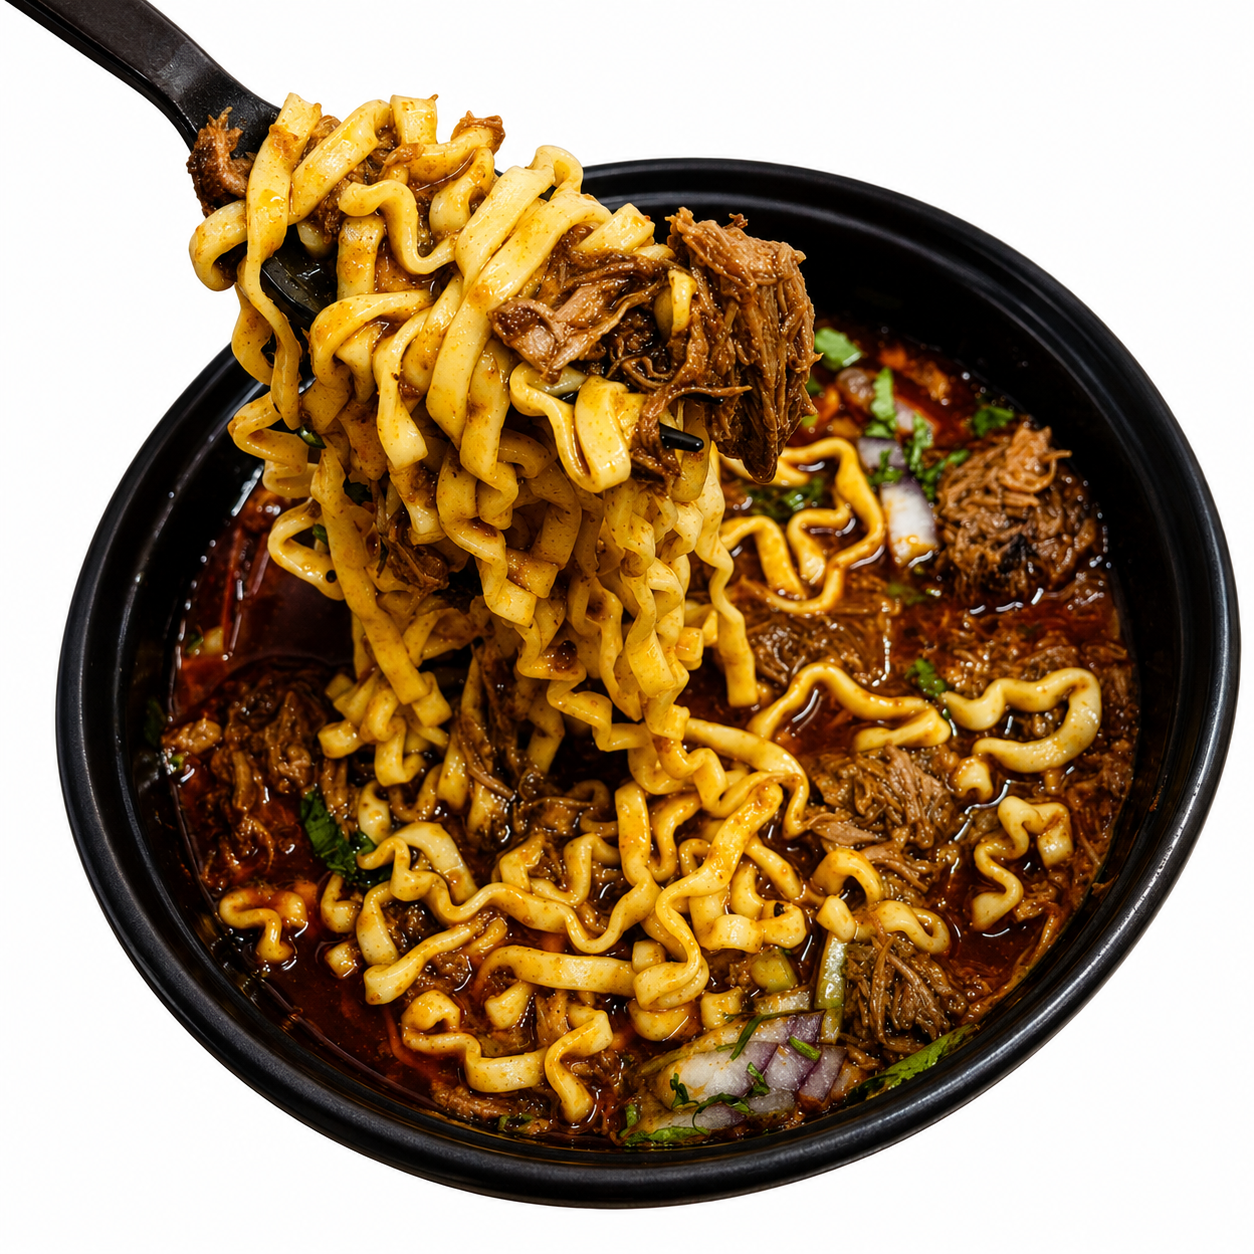
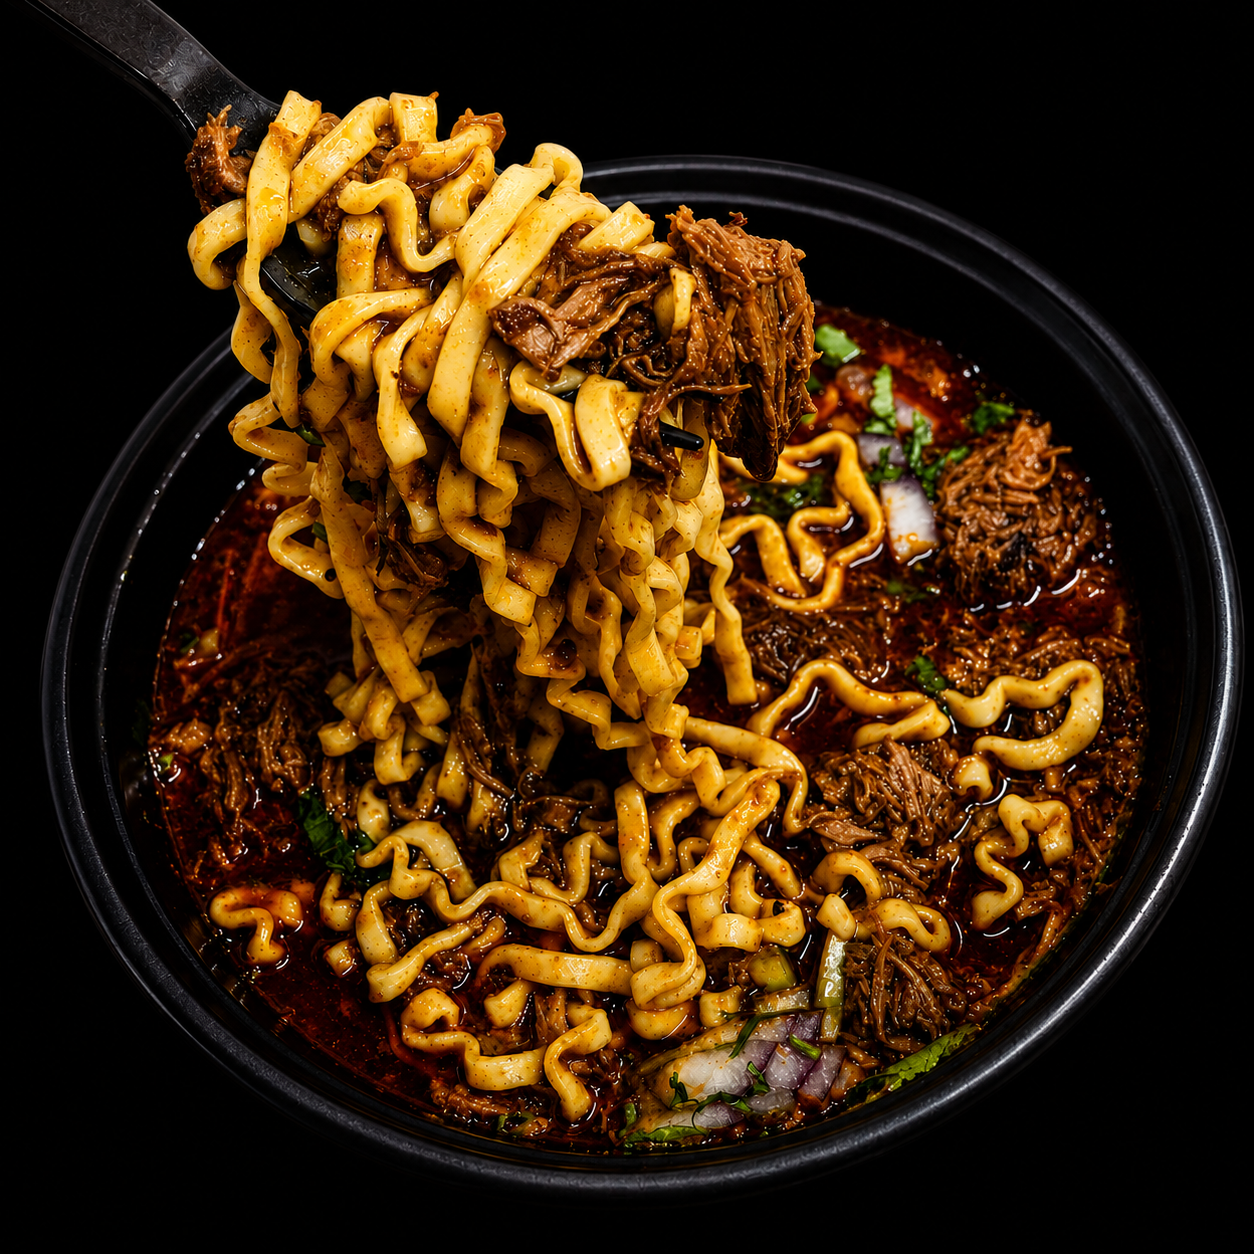
Add new menu items and update food images

diff --git a/menu.html b/menu.html
@@ -34,29 +34,51 @@
 
     <section class="menu-container">
 
-        <!-- Hawaiian Burger -->
+        <!-- Cuban Torta -->
         <div class="menu-card">
 
             <div class="menu-image">
-                <!-- Replace image later -->
-                <img src="images/hawaiian-placeholder.jpg" alt="Hawaiian Burger">
+                <img src="images/cubana.png" alt="Torta Cubana">
             </div>
 
             <div class="menu-info">
 
-                <h2>Hawaiian Burger</h2>
+                <h2>Cuban Torta</h2>
 
                 <p>
-                    1/3-pound burger topped with ham, pineapple,
-                    pepper jack cheese, lettuce, tomato,
-                    onion, and pickles.
+                    Crispy chicken wrapped in a warm flour tortilla 
+                    with crisp lettuce, 
+                    fresh tomatoes, melted cheese, 
+                    and creamy Caesar dressing.
                 </p>
 
-                <span class="price">$14</span>
+                <span class="price">$15</span>
 
             </div>
         </div>
 
+        <!-- Hawaiian Torta -->
+        <div class="menu-card">
+
+            <div class="menu-image">
+                <img src="images/hawaiian-torta.png" alt="Hawaiian Torta">
+            </div>
+
+            <div class="menu-info">
+
+                <h2>Hawaiian Torta</h2>
+
+                <p>
+                    Crispy chicken wrapped in a warm flour tortilla 
+                    with crisp lettuce, 
+                    fresh tomatoes, melted cheese, 
+                    and creamy Caesar dressing.
+                </p>
+
+                <span class="price">$15</span>
+
+            </div>
+        </div>
 
         <!-- Brisket Burger -->
         <div class="menu-card">
@@ -80,28 +102,28 @@
             </div>
         </div>
 
-
-        <!-- Birriamen -->
+        <!-- Hawaiian Burger -->
         <div class="menu-card">
 
             <div class="menu-image">
-                <img src="images/birriaRamen.png" alt="Birriamen">
+                <!-- Replace image later -->
+                <img src="images/hawaiian-placeholder.jpg" alt="Hawaiian Burger">
             </div>
 
             <div class="menu-info">
 
-                <h2>Birriamen</h2>
+                <h2>Hawaiian Burger</h2>
 
                 <p>
-                    Homemade birria with ramen noodles,
-                    dressed with onion and cilantro.
+                    1/3-pound burger topped with ham, pineapple,
+                    pepper jack cheese, lettuce, tomato,
+                    onion, and pickles.
                 </p>
 
-                <span class="price">$15</span>
+                <span class="price">$14</span>
 
             </div>
         </div>
-
 
         <!-- Quesabirria -->
         <div class="menu-card">
@@ -124,21 +146,42 @@
 
             </div>
         </div>
-        
-        <!-- chicken ranch wrap -->
+
+        <!-- Birriamen -->
         <div class="menu-card">
 
             <div class="menu-image">
-                <img src="images/ranchwrap.png" alt="Chicken Ranch Wrap">
+                <img src="images/birriaRamen.png" alt="Birriamen">
             </div>
 
             <div class="menu-info">
 
-                <h2>Chicken Bacon Ranch Wrap</h2>
+                <h2>Birriamen</h2>
+
+                <p>
+                    Homemade birria with ramen noodles,
+                    dressed with onion and cilantro.
+                </p>
+
+                <span class="price">$15</span>
+
+            </div>
+        </div>
+        
+        <!-- jalapeño chicken ranch wrap -->
+        <div class="menu-card">
+
+            <div class="menu-image">
+                <img src="images/ranchwrap.png" alt="Jalapeño Chicken Ranch Wrap">
+            </div>
+
+            <div class="menu-info">
+
+                <h2>Jalapeño Chicken Ranch Wrap</h2>
 
                 <p>
                     Crispy chicken wrapped in a warm flour tortilla with 
-                    crispy bacon, mozzarella cheese, 
+                    crispy bacon, mozzarella cheese, pickled jalapeños, crisp 
                     lettuce, fresh pico de gallo, and creamy ranch dressing.
                 </p>
 
@@ -164,6 +207,93 @@
                     with crisp lettuce, 
                     fresh tomatoes, melted cheese, 
                     and creamy Caesar dressing.
+                </p>
+
+                <span class="price">$15</span>
+
+            </div>
+        </div>
+
+        <!-- Chicken Torta -->
+        <div class="menu-card">
+
+            <div class="menu-image">
+                <img src="images/chickenTorta.png" alt="Chicken Torta">
+            </div>
+
+            <div class="menu-info">
+
+                <h2>Chicken Milanesa Torta</h2>
+
+                <p>
+                    Crispy breaded chicken breast topped with melted cheese, 
+                    refried beans, fresh tomatoes, onion, and pickled jalapeños on a toasted Mexican bolillo roll.
+                </p>
+
+                <span class="price">$15</span>
+
+            </div>
+        </div>
+
+        <!-- Deluxe Loaded Fries -->
+        <div class="menu-card">
+
+            <div class="menu-image">
+                <img src="images/Deluxe.png" alt="Deluxe Loaded Fries">
+            </div>
+
+            <div class="menu-info">
+
+                <h2>Deluxe Loaded Fries</h2>
+
+                <p>
+                    Crispy golden fries loaded with juicy steak, 
+                    crispy bacon, sliced hot dog, warm nacho cheese, 
+                    fresh pico de gallo, and a dollop of cool sour cream.
+                </p>
+
+                <span class="price">$15</span>
+
+            </div>
+        </div>
+
+        <!-- Nachos -->
+        <div class="menu-card">
+
+            <div class="menu-image">
+                <img src="images/nachos.png" alt="Nachos">
+            </div>
+
+            <div class="menu-info">
+
+                <h2>Nachos</h2>
+
+                <p>
+                    Crispy corn tortilla chips loaded with creamy jalapeño nacho cheese, 
+                    fresh pico de gallo, sour cream, green onions, 
+                    and your choice of tender chicken, seasoned steak, or savory chorizo.
+                </p>
+
+                <span class="price">$15</span>
+
+            </div>
+        </div>
+
+        <!-- Street Corn -->
+        <div class="menu-card">
+
+            <div class="menu-image">
+                <img src="images/streetcorn.png" alt="Street Corn">
+            </div>
+
+            <div class="menu-info">
+
+                <h2>Street Corn</h2>
+
+                <p>
+                    Sweet corn tossed in jalapeño-infused butter, 
+                    then mixed with creamy mayonnaise, fresh cilantro, 
+                    Mexican crumbled cheese, and finished with a sprinkle of Tajín.
                 </p>
 
                 <span class="price">$15</span>

diff --git a/stylesheet.css b/stylesheet.css
@@ -105,7 +105,7 @@ h2{
 }
 
 .menu-container {
-    width: 90%;
+    width: 65%;
     max-width: 900px;
     margin: auto;
 }
